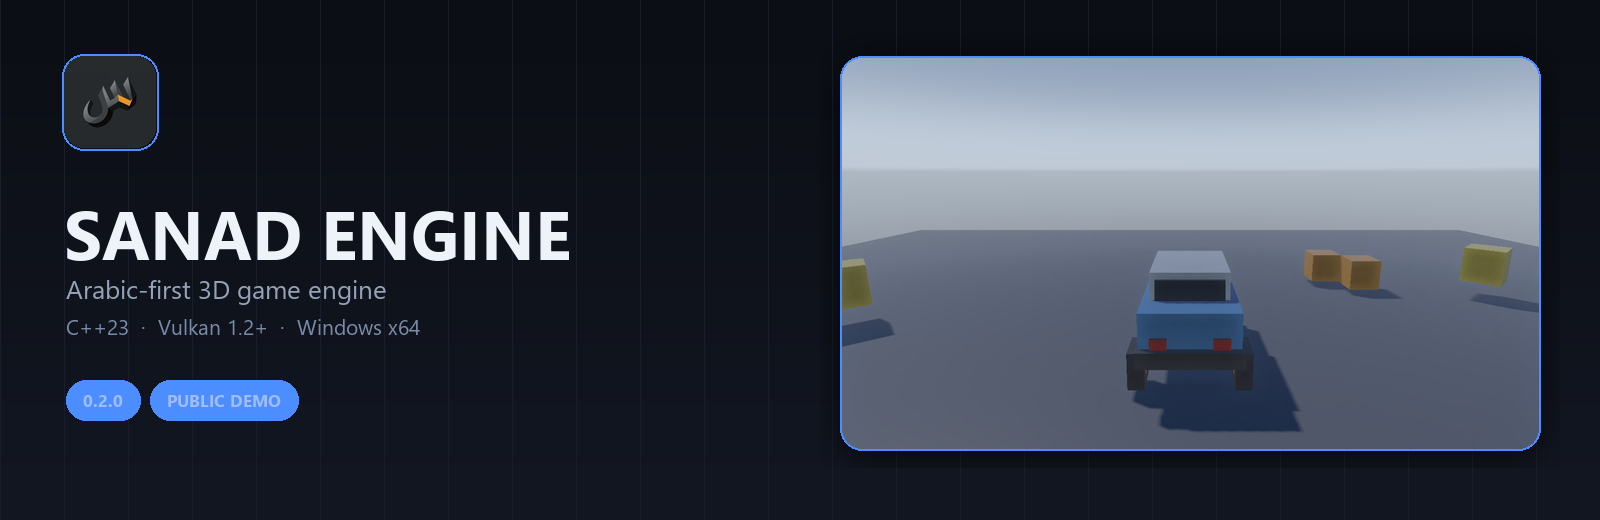
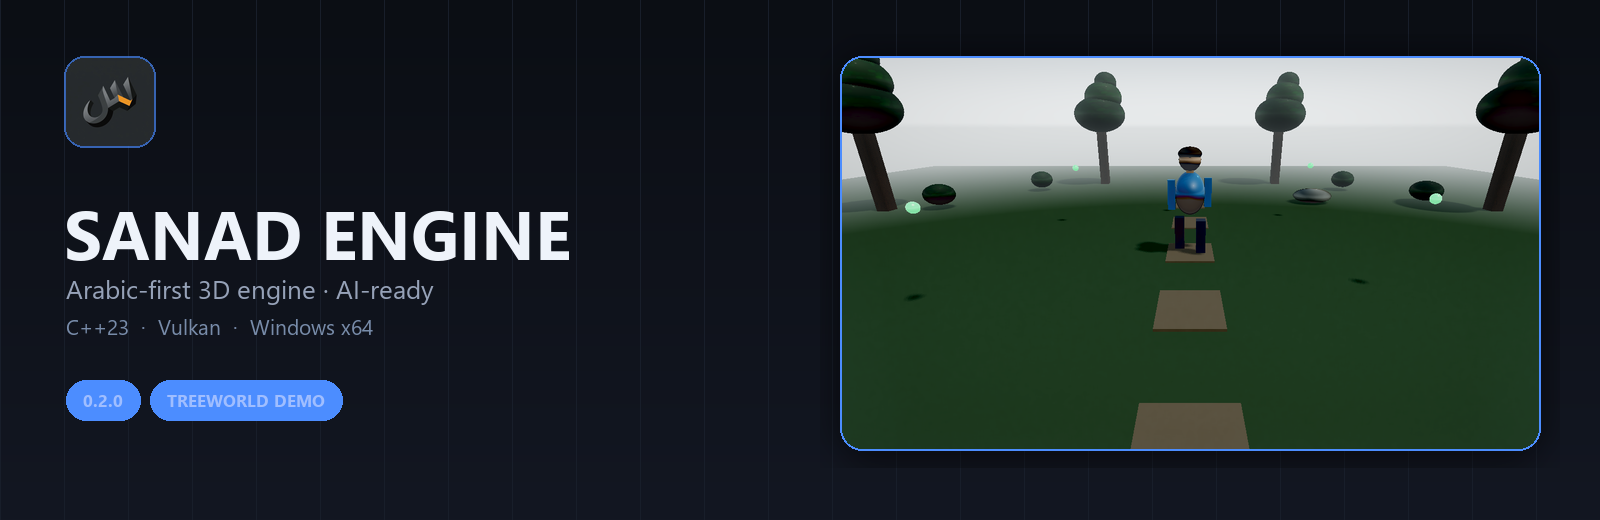
docs(github): feature TreeWorld and the AI-ready workflow

diff --git a/README.md b/README.md
@@ -1,6 +1,6 @@
 <div align="center">
 
-<img src="Docs/images/banner.png" alt="SANAD Engine — Arabic-first 3D game engine" width="100%">
+<img src="Docs/images/banner.png" alt="SANAD Engine — Arabic-first 3D game engine, with TreeWorld running" width="100%">
 
 # SANAD Engine · محرك سَنَد
 
@@ -14,6 +14,7 @@
 <a href="#"><img alt="Vulkan 1.2+" src="https://img.shields.io/badge/Vulkan-1.2%2B-red?style=flat-square&logo=vulkan"></a>
 <a href="#"><img alt="Windows x64" src="https://img.shields.io/badge/platform-Windows%20x64-0078D4?style=flat-square"></a>
 <a href="#"><img alt="1,875 tests passing" src="https://img.shields.io/badge/tests-1%2C875%20passing-brightgreen?style=flat-square"></a>
+<a href="AGENTS.md"><img alt="AI-ready workflow" src="https://img.shields.io/badge/AI--ready-agents-6f42c1?style=flat-square"></a>
 <a href="CONTRIBUTING.md"><img alt="Contributions welcome" src="https://img.shields.io/badge/contributions-welcome-orange?style=flat-square"></a>
 
 <br>
@@ -48,6 +49,9 @@
   and a **Start Here** guide that gets a new user to a playable scene.
 - **Built like an engine.** C++23, a Vulkan 1.2+ RHI, a data-oriented sparse-set
   ECS, a DAG RenderGraph, and strict module layering enforced in CI.
+- **AI-ready, not AI-washed.** The repo, the CLI, and every generated project
+  carry the same executable contract, so an agent makes a native `.nfproj`
+  instead of drifting into a web stub.
 - **End-to-end workflow.** Create a project, add objects, press **Play**, save with
   a close guard and recovery copy, then package a standalone player.
 - **Open source.** Apache-2.0 — use it, learn from it, or build on it.
@@ -124,6 +128,26 @@ forest pack.
 ```bat
 build\Release\bin\nf.exe run --project Games\TreeWorld\TreeWorld.nfproj
 ```
+
+> [!NOTE]
+> TreeWorld lives on **`main`** and is built from source. The packaged **0.2.0**
+> portable zip below predates it, so use `build_nf.bat Release` (or a newer
+> release) to play the sample.
+
+## 🧪 Latest on `main` (after 0.2.0)
+
+- **Agent-ready from the first command.** `AGENTS.md`, `CLAUDE.md`, Cursor rules,
+  `llms.txt`, a per-project `AGENTS.md`, and `nf guide` all teach an AI the same
+  native scene/Lua workflow — no HTML fallback.
+- **Lua gameplay that can finish a game.** Named actions (`nf.action`), analog
+  axes (`nf.axis`), entity lookup (`nf.find_entity`), names, counts, positions,
+  scales, and alive checks.
+- **A playable starter.** `nf new --template ThirdPerson` now creates **Crate
+  Hunter** — a real collect-and-win game, not a walk-around scene.
+- **Editor safety.** Subtree duplicate (`Ctrl+D`) and a recovery draft with
+  **File → Recover Last Draft**.
+- **Authored atmosphere.** Distance fog in `PostProcess:`, plus the TreeWorld
+  sample with PBR materials, shadows, bloom, and ACES grading.
 
 ## ✨ What's in 0.2.0
 
@@ -270,6 +294,7 @@ Run from `build\Release\bin\`; most accept `--frames N` for bounded runs.
 |:---|:---|
 | `NFSampleCliffStory` — حكاية الجرف | Complete 2D story-climb on `NFScene2D` (65 ledges, dusk→night, shaped Arabic text) |
 | `NFSampleVehicleDemo` | Jolt vehicle, chase camera, destructible crates |
+| [`Games/TreeWorld`](Games/TreeWorld) | Full game source: third-person movement, fog, PBR materials, five collectibles |
 | Others | Triangle, Basic3D, Water, Audio, Animation, GameUI, RuntimeScene, MedievalVillage, … |
 
 ## 📁 Project structure
@@ -277,6 +302,7 @@ Run from `build\Release\bin\`; most accept `--frames N` for bounded runs.
 ```
 Engine/        Core, RHI (Vulkan), Rendering, ECS, Scene, Physics, Audio, AI, … (23 subsystems)
 Editor/        ImGui editor + Arabic launcher
+Games/         Complete sample games (TreeWorld)
 Tools/         nf CLI, AssetCooker, ModelImporter, Player, ProjectTool
 Samples/       Playable demos (CliffStory, VehicleDemo, …)
 Templates/     Starter projects (Default, ThirdPerson, FPSStarter, Platformer2D)
@@ -307,7 +333,15 @@ Fork → branch → build → zero validation errors → pull request. Issues ta
 **نداء للمبدعين العرب:** نرحّب بمبرمجي C++ والرسوميات والفيزياء والصوتيات
 واجهات المحرر وكتّاب التوثيق — المشروع مصمّم طبقيًا ليتّسع للجميع.
 
-Details: [CONTRIBUTING.md](CONTRIBUTING.md) · [CODE_OF_CONDUCT.md](CODE_OF_CONDUCT.md).
+Details: [CONTRIBUTING.md](CONTRIBUTING.md) · [CODE_OF_CONDUCT.md](CODE_OF_CONDUCT.md) ·
+[SECURITY.md](SECURITY.md).
+
+## 🔐 Security
+
+Report vulnerabilities privately through GitHub's **Security → Report a
+vulnerability** flow. Please do not open a public issue with a working exploit.
+The full policy, supported versions, and the unsigned-binary caveat are in
+[`SECURITY.md`](SECURITY.md).
 
 ## 📜 License & acknowledgements
 

diff --git a/README.ar.md b/README.ar.md
@@ -14,6 +14,7 @@
 <a href="#"><img alt="Vulkan 1.2+" src="https://img.shields.io/badge/Vulkan-1.2%2B-red?style=flat-square&logo=vulkan"></a>
 <a href="#"><img alt="Windows x64" src="https://img.shields.io/badge/platform-Windows%20x64-0078D4?style=flat-square"></a>
 <a href="#"><img alt="1,875 اختبارًا ناجحًا" src="https://img.shields.io/badge/tests-1%2C875%20passing-brightgreen?style=flat-square"></a>
+<a href="AGENTS.md"><img alt="سير عمل جاهز للوكلاء" src="https://img.shields.io/badge/AI--ready-agents-6f42c1?style=flat-square"></a>
 
 <br>
 
@@ -49,6 +50,8 @@
   يوصل المستخدم الجديد إلى مشهد قابل للتشغيل.
 - **مبني كمحرك.** C++23، واجهة Vulkan 1.2+، ECS موجّه بالبيانات، وRenderGraph
   على شكل DAG، مع فرض طبقات صارم.
+- **جاهز للذكاء الاصطناعي، لا مجرد شعار.** الريبو وCLI وكل مشروع جديد يحملون
+  نفس العقد القابل للتنفيذ، فيبني الوكيل `.nfproj` أصليًا بدل الانحراف إلى ويب.
 - **سير عمل كامل.** أنشئ مشروعًا، أضف مجسمات، اضغط **Play**، احفظ بأمان مع نسخة
   استرداد، ثم اصنع لاعبًا مستقلًا.
 - **مفتوح المصدر.** Apache-2.0.
@@ -125,6 +128,24 @@ Codex أو Cursor أو أي وكيل على هذا الريبو:
 build\Release\bin\nf.exe run --project Games\TreeWorld\TreeWorld.nfproj
 ```
 
+> [!NOTE]
+> لعبة TreeWorld على فرع **`main`** وتُبنى من المصدر. حزمة **0.2.0** المحمولة
+> سبقتها؛ استخدم `build_nf.bat Release` (أو إصدارًا أحدث) لتشغيل اللعبة.
+
+## 🧪 أحدث ما في `main` (بعد 0.2.0)
+
+- **جاهز للوكلاء من أول أمر.** `AGENTS.md` و`CLAUDE.md` وقواعد Cursor و`llms.txt`
+  و`AGENTS.md` لكل مشروع و`nf guide` تعلّم الوكيل نفس سير العمل الأصلي —
+  بلا HTML.
+- **Lua يكفي لإنهاء لعبة.** أفعال مسمّاة (`nf.action`)، محاور (`nf.axis`)، بحث عن
+  الكيانات (`nf.find_entity`)، أسماء وعدد ومواضع ومقاييس وفحص حياة.
+- **قالب يلعب فورًا.** `nf new --template ThirdPerson` ينشئ **Crate Hunter**:
+  لعبة جمع وفوز حقيقية، لا مشهد تمشية.
+- **أمان المحرر.** نسخ شجرة كاملة (`Ctrl+D`) ومسودة استرداد عبر
+  **File → Recover Last Draft**.
+- **أجواء مؤلّفة.** ضباب مسافة في `PostProcess:`، ولعبة TreeWorld بمواد PBR
+  وظلال وBloom وتصحيح ACES.
+
 ## ✨ جديد في 0.2.0
 
 - واجهة محرر محايدة: لون واحد للحالة بدل تلوين كل زر.
@@ -174,7 +195,7 @@ build_nf.bat Release
 
 ```bat
 build\Release\bin\SANADEditor.exe
-build\Release\bin\RuntimeTests.exe
+build\Release\bin\NFPlayer.exe
 ```
 
 <details>
@@ -214,6 +235,7 @@ NFPlayer.exe
 ```
 Engine/        23 نظامًا: Core، RHI، Rendering، ECS، Scene، Physics، Audio، AI…
 Editor/        محرر ImGui + المشغّل العربي
+Games/         ألعاب كاملة (TreeWorld)
 Tools/         nf CLI، AssetCooker، ModelImporter، Player، ProjectTool
 Samples/       ديمو قابل للتشغيل (CliffStory، VehicleDemo…)
 Templates/     مشاريع البداية
@@ -240,7 +262,13 @@ Fork → فرع → بناء → صفر أخطاء validation → Pull Request. 
 **`good first issue`** مناسبة للمبتدئين (توثيق، أمثلة، تجربة المحرر).
 
 نرحّب بمبرمجي C++ والرسوميات والفيزياء والصوتيات وواجهات المحرر وكتّاب
-التوثيق. التفاصيل: [CONTRIBUTING.md](CONTRIBUTING.md).
+التوثيق. التفاصيل: [CONTRIBUTING.md](CONTRIBUTING.md) · [CODE_OF_CONDUCT.md](CODE_OF_CONDUCT.md).
+
+## 🔐 الأمان
+
+أبلغ عن الثغرات بشكل خاص عبر **Security → Report a vulnerability** في GitHub.
+لا تفتح Issue عامًا يحتوي على استغلال فعّال. السياسة الكاملة والإصدارات المدعومة
+وتنبيه الملفات غير الموقّعة في [`SECURITY.md`](SECURITY.md).
 
 ## 📜 الترخيص والشكر
 

diff --git a/SECURITY.md b/SECURITY.md
@@ -1,0 +1,67 @@
+# Security policy
+
+SANAD Engine is a native Windows x64 game engine and editor written in C++23
+with a Vulkan renderer. This policy covers the engine, the editor, the `nf` CLI,
+and the packaged player.
+
+## Supported versions
+
+| Version | Supported |
+|:---|:---:|
+| `main` (latest commit) | ✅ |
+| 0.2.0 public demo | ✅ (security fixes only) |
+| Older demos / snapshots | ❌ |
+
+Security fixes land on `main` first. There is no long-term support branch yet.
+
+## Report a vulnerability
+
+**Do not open a public issue for a working exploit.**
+
+Use GitHub's private vulnerability reporting:
+
+1. Open <https://github.com/abdallah2183/SANAD-Engine/security/advisories/new>
+2. Choose **Report a vulnerability**
+3. Include affected version/commit, platform, reproduction steps, impact, and a
+   minimal proof of concept if one exists.
+
+If private reporting is unavailable, contact the maintainer through the GitHub
+profile at <https://github.com/abdallah2183> and ask for a private channel before
+sharing details.
+
+You can expect an acknowledgement within **7 days** and a status update within
+**30 days**. Please allow time for a fix before publishing.
+
+## Scope
+
+In scope:
+
+- Memory-safety bugs in the engine, editor, CLI, asset importers, or player.
+- Sandbox escapes in Lua or the .NET script host.
+- Path traversal or arbitrary file write through project/asset handling.
+- Malicious `.nfscene`, `.nfmesh`, `.nfmat`, glTF, or image files that crash or
+  execute code.
+- Privilege boundaries broken by the editor or packaging scripts.
+
+Out of scope:
+
+- Crashes caused by unsupported GPUs, drivers, or missing Vulkan support.
+- Smart App Control / WDAC blocking **unsigned** demo executables. That is an
+  expected consequence of shipping unsigned binaries; do not disable your
+  security policy to work around it.
+- Denial of service from deliberately enormous but otherwise valid projects.
+- Issues in third-party dependencies that are already fixed upstream and not
+  reachable through SANAD.
+
+## Unsigned binaries
+
+The public demo is distributed as an **unsigned portable zip**. Windows may show
+"Unknown publisher" or block a downloaded executable. Verify the SHA-256 from
+the release page and build from source if you need a binary you trust. Code
+signing is on the roadmap; it is not a substitute for reporting a vulnerability.
+
+## Disclosure
+
+We credit reporters in the advisory unless you ask to remain anonymous. Please
+do not include secrets, personal data, or third-party code you do not have the
+right to share in a report.
